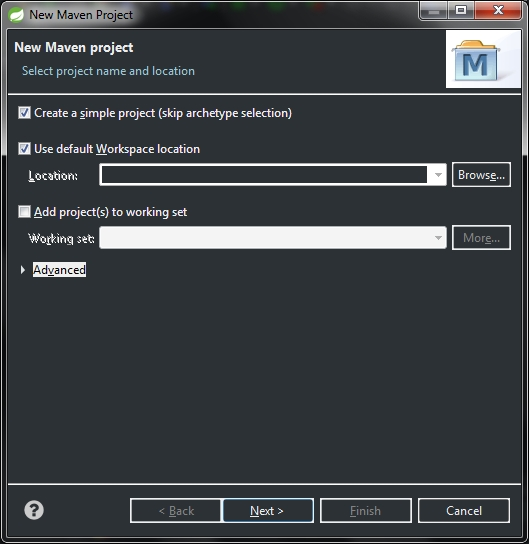
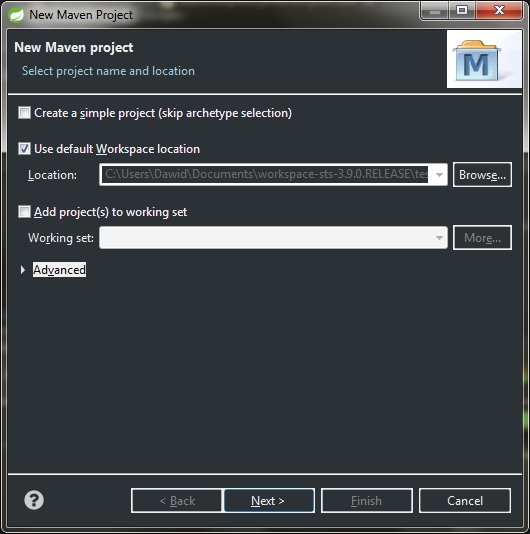
2019-05-04 - Dodanie nowej zawartości

diff --git a/WebContent/eclipse/tworzenieProjektuMaven.html b/WebContent/eclipse/tworzenieProjektuMaven.html
@@ -7,11 +7,13 @@
 	<!-- OBRAZEK Z OKNEM WYBORU PROJEKTU W ECLIPSE -->
 	<img src="obrazki/oknoSelectAWizard.jpg" style="max-width: 525px;" onclick="powiekszZdjecie(this)">
 	
-	<p>Wybieramy <span class="clickDiv">Maven -> Maven Project</span> i przechodzimy do okna ustawień nowego projektu. W tym oknie zaznaczamy opcję <span class="important">Create a simple project (skip archetype selection)</span>. 
+	<p>Wybieramy <span class="clickDiv">Maven -> Maven Project</span> i przechodzimy do okna ustawień nowego projektu. 
 		Klikamy <span class="clickDiv">Next</span> i przechodzimy do kolejnego okna konfiguracyjnego nowego projektu:</p>
 	
 	<!-- OBRAZEK Z OKNEM USTAWIEŃ NOWEGO PROJEKTU MAVEN -->
-	<img src="obrazki/oknoNewMavenProject.jpg" style="max-width: 529px;" onclick="powiekszZdjecie(this)">
+	<img src="obrazki/oknoNewMavenProject.jpg" style="max-width: 530px;" onclick="powiekszZdjecie(this)">
+	
+	<p>W następnym oknie należy zaznaczyć <span class="clickDiv">maven-archetype-quickstart</span>. Klikamy Next i przechodzimy do kolejnego okna konfiguracji.</p>
 		
 	<p>W tym oknie ustawiamy Group Id oraz Artifact Id i następnie klikamy przycisk <span class="clickDiv">Finish</span>. Projekt zostaje utworzony.</p>
 	
@@ -27,18 +29,20 @@
 	<code>&lt;outputDirectory&gt;</code> (folder w którym zostanie utworzony plik jar) oraz <code>&lt;mainClass&gt;</code> (ścieżkę do pliku z klasą zawierającą metodę main)</p>
 	
 	<div class="codeDiv">
-		&lt;project xmlns="http://maven.apache.org/POM/4.0.0" xmlns:xsi="http://www.w3.org/2001/XMLSchema-instance"<br>
-		<span class='tabbed1'>rg/2001/XMLSchema-instance"</span><br>
-		<span class='tabbed1'>xsi:schemaLocation="http://maven.apache.org/POM/4.0.0 http://maven.apache.org/x</span><br>
-		<span class='tabbed2'>sd/maven-4.0.0.xsd"&gt;</span><br>
+		&lt;project xmlns="http://maven.apache.org/POM/4.0.0" xmlns:xsi="http://www.w3<br>
+		<span class='tabbed1'>.org/2001/XMLSchema-instance"</span><br>
+		<span class='tabbed1'>xsi:schemaLocation="http://maven.apache.org/POM/4.0.0 http://maven.apache.org/xs</span><br>
+		<span class='tabbed2'>d/maven-4.0.0.xsd"&gt;</span><br>
 		<span class='tabbed1'>&lt;modelVersion&gt;4.0.0&lt;/modelVersion&gt;</span><br>
 		<span class='tabbed1'>&lt;groupId&gt;pl.softService&lt;/groupId&gt;</span><br>
-		<span class='tabbed1'>&lt;artifactId&gt;spring&lt;/artifactId&gt;</span><br>
+		<span class='tabbed1'>&lt;artifactId&gt;testowaAplikacjaMaven&lt;/artifactId&gt;</span><br>
 		<span class='tabbed1'>&lt;version&gt;0.0.1&lt;/version&gt;</span><br>
 		<br>
 		<span class='tabbed1'>&lt;properties&gt;</span><br>
 		<span class='tabbed2'>&lt;project.build.sourceEncoding&gt;UTF-8&lt;/project.build.sourceEncoding&gt;</span><br>
 		<span class='tabbed2'>&lt;spring.version&gt;5.0.8.RELEASE&lt;/spring.version&gt;</span><br>
+		<span class='tabbed2'>&lt;maven.compiler.target&gt;1.8&lt;/maven.compiler.target&gt;</span><br>
+		<span class='tabbed2'>&lt;maven.compiler.source&gt;1.8&lt;/maven.compiler.source&gt;</span><br>
 		<span class='tabbed1'>&lt;/properties&gt;</span><br>
 		<br>
 		<span class='tabbed1'>&lt;dependencies&gt;</span><br>
@@ -59,7 +63,8 @@
 		<span class='tabbed5'>&lt;outputDirectory&gt;Output&lt;/outputDirectory&gt;</span><br>
 		<span class='tabbed5'>&lt;archive&gt;</span><br>
 		<span class='tabbed6'>&lt;manifest&gt;</span><br>
-		<span class='tabbed7'>&lt;mainClass&gt;pl.softService.spring.app.Main&lt;/mainClass&gt;</span><br>
+		<span class='tabbed7'>&lt;mainClass&gt;pl.softService.testowaAplikacjaMaven.app.Main&lt;/mainCla</span><br>
+		<span class='tabbed8'>ss&gt;</span><br>
 		<span class='tabbed6'>&lt;/manifest&gt;</span><br>
 		<span class='tabbed5'>&lt;/archive&gt;</span><br>
 		<span class='tabbed4'>&lt;/configuration&gt;</span><br>

diff --git a/WebContent/eclipse/tworzenieProjektuMavenEe.html b/WebContent/eclipse/tworzenieProjektuMavenEe.html
@@ -29,6 +29,30 @@
 	
 	<!-- OBRAZEK PLIK POM NOWEGO PROJEKTU MAVEN -->
 	<img src="obrazki/plikPOMnowegoProjektuMavenWebApp.jpg" style="max-width: 807px;" onclick="powiekszZdjecie(this)">
+
+	<p>Aby nasz projekt po skompilowaniu był kopiowany do lokalizacji serwera to należy skorzystać z następującego pluginu:</p>
+	
+	<div class="codeDiv">
+		&lt;!-- wpisz w konsole mvn install aby zainstalowac aplikacje we wskazanej lo<br>
+		<span class='tabbed1'>kalizacji--&gt;</span><br>
+		&lt;build&gt;<br>
+		<span class='tabbed1'>&lt;plugins&gt;</span><br>
+		<span class='tabbed2'>&lt;plugin&gt;</span><br>
+		<span class='tabbed3'>&lt;groupId&gt;org.apache.maven.plugins&lt;/groupId&gt;</span><br>
+		<span class='tabbed3'>&lt;artifactId&gt;maven-war-plugin&lt;/artifactId&gt;</span><br>
+		<span class='tabbed3'>&lt;version&gt;3.2.2&lt;/version&gt;</span><br>
+		<span class='tabbed3'>&lt;configuration&gt;</span><br>
+		<span class='tabbed4'>&lt;!-- Ustawia lokalizacje exportu gotowej aplikacji (np. do katalogu glowne</span><br>
+		<span class='tabbed5'>go serwera) --&gt;</span><br>
+		<span class='tabbed4'>&lt;webappDirectory&gt;C:/xampp/tomcat/webapps/kalkulatorWycenMebliKuchennych</span><br>
+		<span class='tabbed5'>&lt;/webappDirectory&gt;</span><br>
+		<span class='tabbed4'>&lt;!-- Ustawia nazwe pliku war --&gt;</span><br>
+		<span class='tabbed4'>&lt;warName&gt;${project.artifactId}&lt;/warName&gt;</span><br>
+		<span class='tabbed3'>&lt;/configuration&gt;</span><br>
+		<span class='tabbed2'>&lt;/plugin&gt;</span><br>
+		<span class='tabbed1'>&lt;/plugins&gt;</span><br>
+		&lt;/build&gt;<br>	
+	</div>
 	
 	<p>Po wprowadzeniu jakichkolwiek zmian w pliku pom.xml należy kliknąć ppm na nazwę projektu
 	<span class="clickDiv">Maven -> Update Project</span>. Tak przygotowany projekt można już skompilować.
